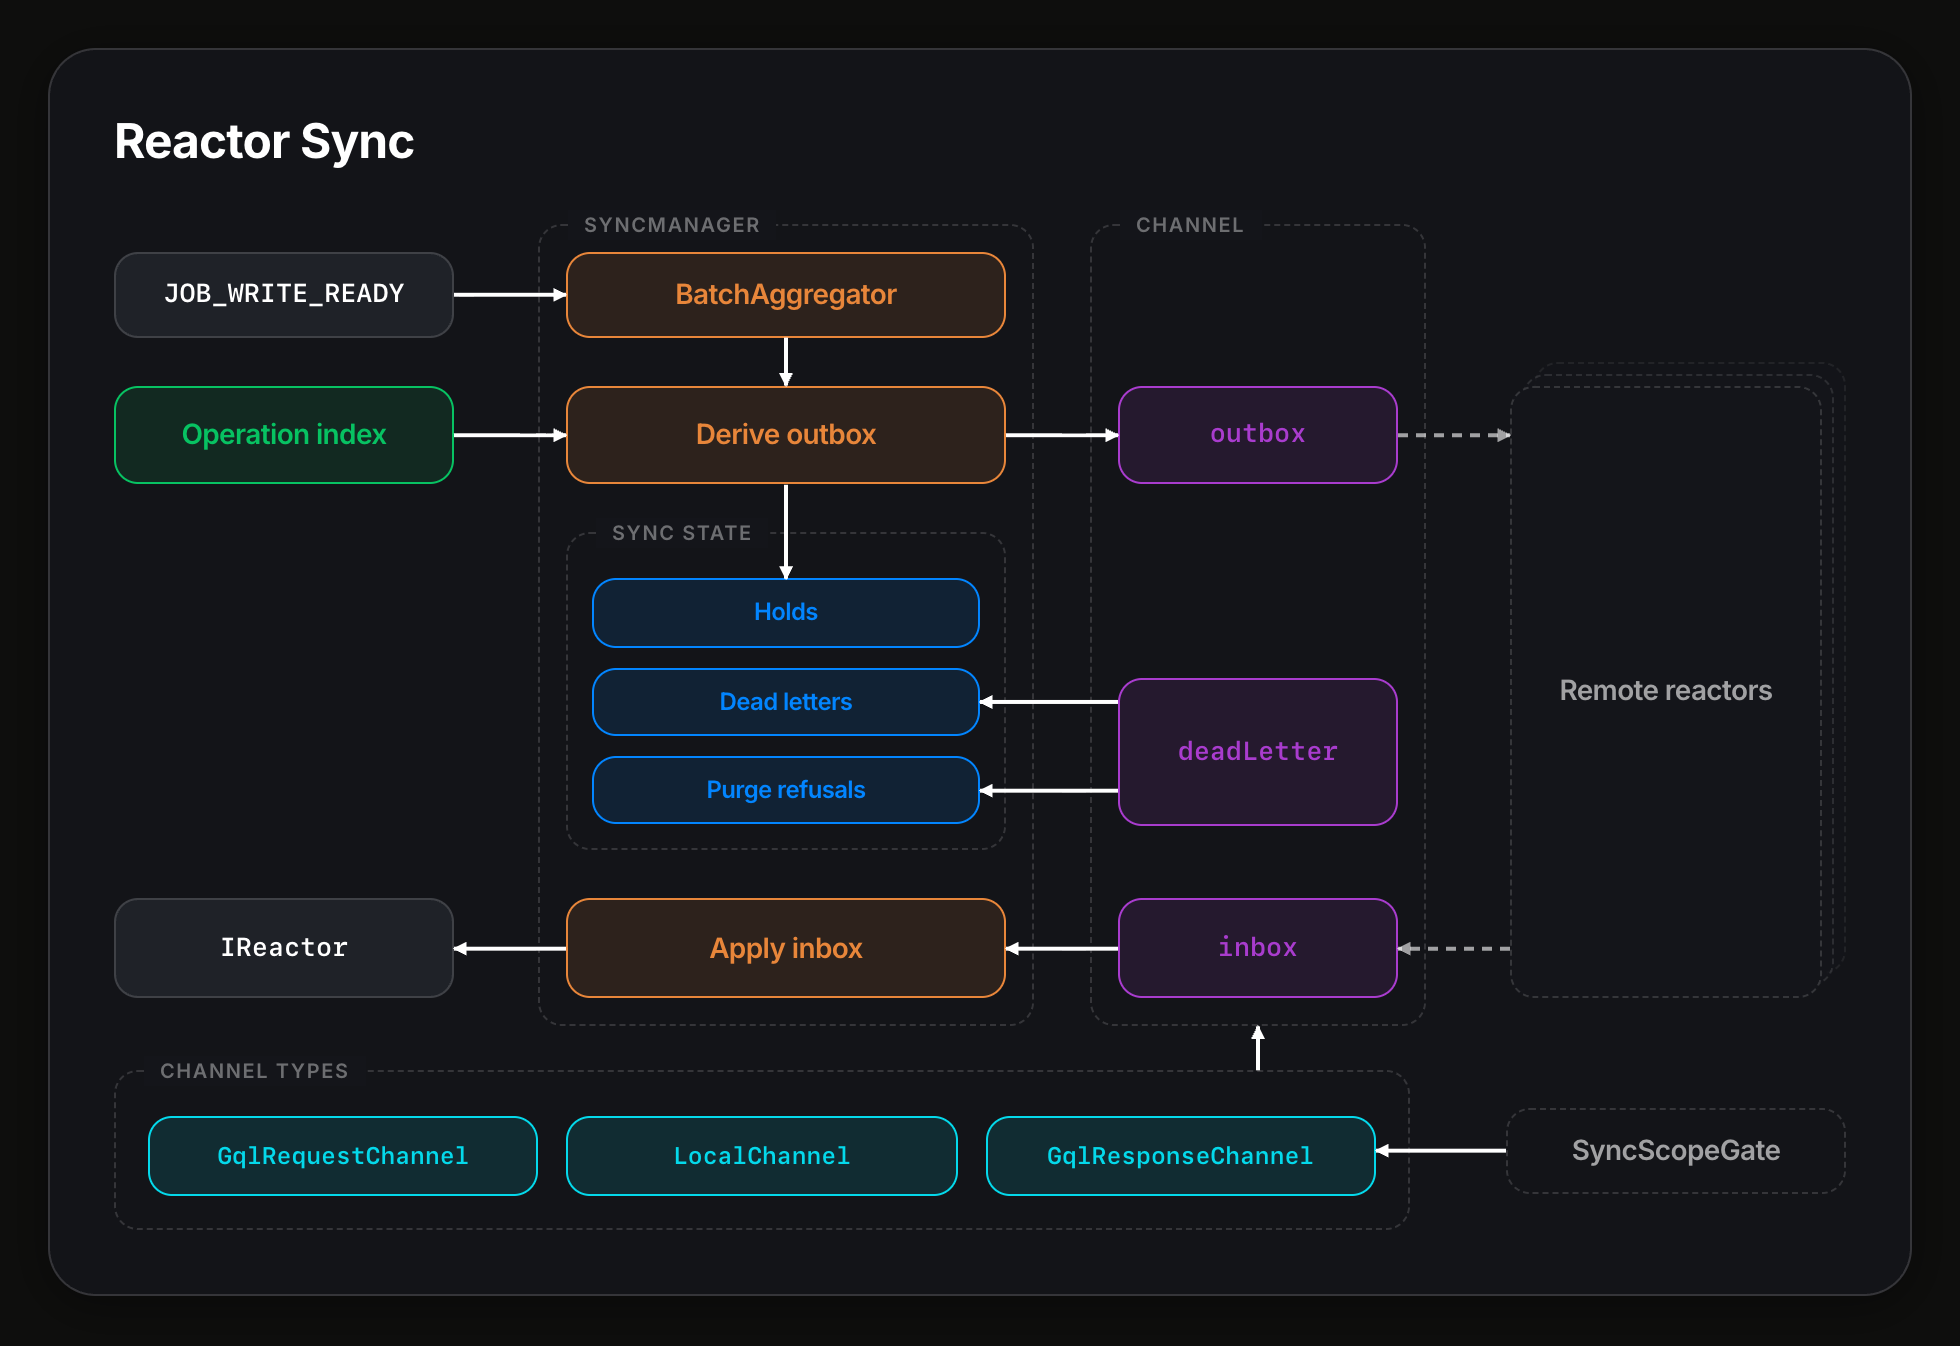
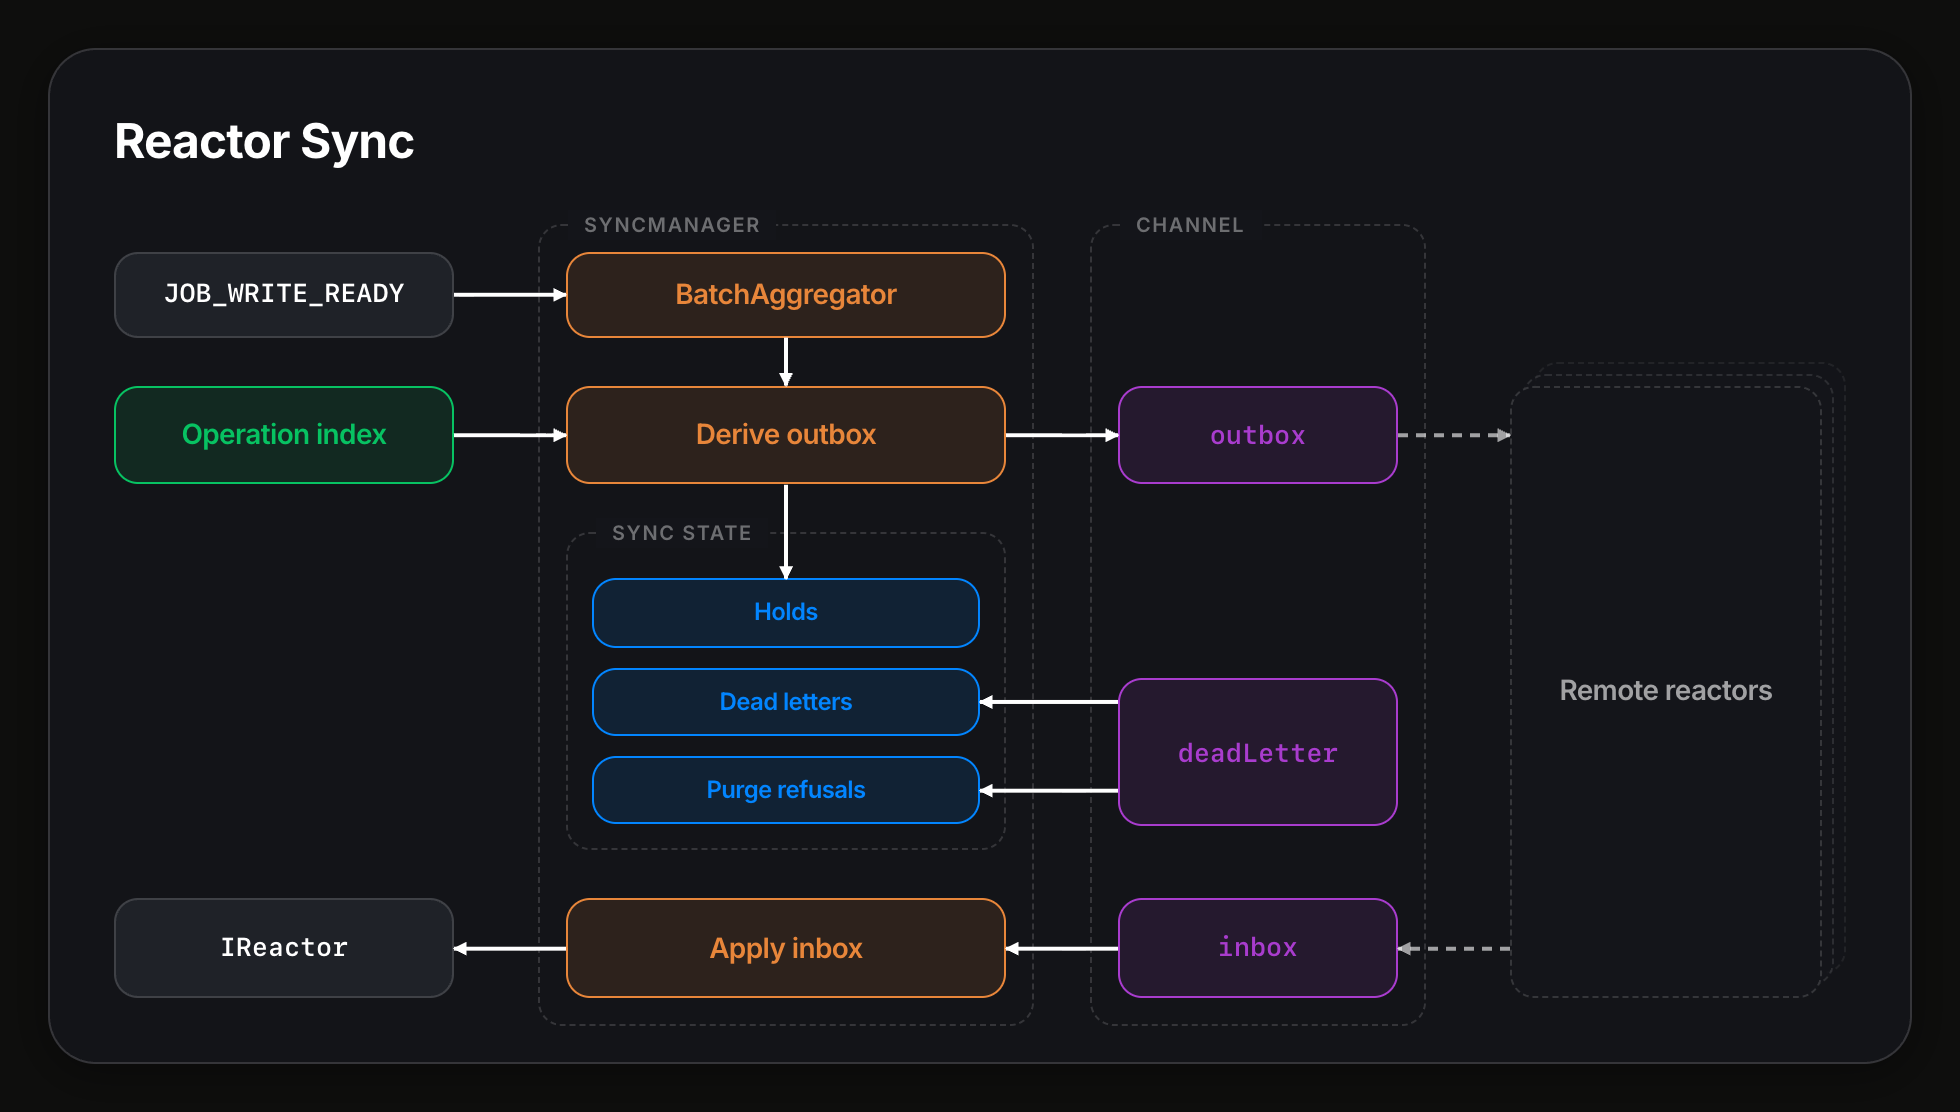
reactor sync: drop channel types and SyncScopeGate

diff --git a/pages/reactor-sync.html b/pages/reactor-sync.html
@@ -158,21 +158,7 @@
     .state-grid .box { padding: 9px 6px; }
     .state-grid .box-title { font-size: 12px; }
 
-    .types-row {
-      position: relative;
-      display: grid;
-      grid-template-columns: 1fr 170px;
-      column-gap: 48px;
-      align-items: center;
-      margin-top: 36px;
-    }
-    .types {
-      display: grid;
-      grid-template-columns: repeat(3, 1fr);
-      gap: 14px;
-    }
     .mailbox { align-self: center; padding: 16px 12px; }
-    .types .box-title.mono { font-size: 12px; }
   </style>
 </head>
 <body>
@@ -204,13 +190,6 @@
         refuse ................ sync-manager.ts:2173-2181: an outbox dead letter typed MARKER_REFUSED (the peer refused our tombstone)
                                 becomes a purge refusal via recordPurgeRefusal (:798). Also from poll reports (:802)
     Remote reactors [stack] ... sync/sync-manager.ts:312 (remotes: Map<string, Remote>)
-    Channel types · implements  each class implements IChannel (sync/interfaces.ts:37-102)
-      GqlRequestChannel ....... channels/gql-req-channel.ts:160 (touchChannel :1124)
-      LocalChannel ............ channels/local-channel.ts:73; channels/local-channel-factory.ts:27
-      GqlResponseChannel ...... channels/gql-res-channel.ts:23; reactor-api/src/graphql/reactor/resolvers.ts:2214, :1803
-      SyncScopeGate · filters . decision/sync-scope-gate.ts:20, :41; reactor-api/src/services/sync-serving-gate.ts:40-48;
-                                applied reactor-api/src/graphql/reactor/resolvers.ts:1754-1767 (never inside packages/reactor)
-                                Styled external: reactor-api applies it outside the reactor
   -->
   <div class="frame">
     <div class="card">
@@ -244,15 +223,6 @@
           <div class="box accent-orange" id="apply" style="grid-column:2;grid-row:4"><div class="box-title">Apply inbox</div></div>
           <div class="box mailbox accent-purple" id="inbox" style="grid-column:3;grid-row:4"><div class="box-title mono">inbox</div></div>
         </div>
-        <div class="types-row" id="types-row">
-          <div class="group types" id="types">
-            <span class="group-label">Channel types</span>
-            <div class="box accent-cyan" id="gqlreq"><div class="box-title mono">GqlRequestChannel</div></div>
-            <div class="box accent-cyan" id="localch"><div class="box-title mono">LocalChannel</div></div>
-            <div class="box accent-cyan" id="gqlres"><div class="box-title mono">GqlResponseChannel</div></div>
-          </div>
-          <div class="box external" id="gate"><div class="box-title">SyncScopeGate</div></div>
-        </div>
         </div>
       </div>
     </div>
@@ -269,7 +239,6 @@
       const ob = R('outbox'), rm = R('remote'), re = R('reactor'), ap = R('apply');
       const ib = R('inbox'), dl = R('dead');
       const ho = R('holds'), dls = R('deadletters'), pr = R('refusals');
-      const gr = R('gqlres'), gt = R('gate'), cf = R('chan-frame'), ty = R('types');
       return [
         { cls: 'w-call', pts: [[ev.r, ev.cy], [agg.l, ev.cy]], label: '', seg: 0 },
         { cls: 'w-call', pts: [[agg.cx, agg.b], [agg.cx, d.t]], label: '', seg: 0 },
@@ -282,8 +251,6 @@
         { cls: 'w-call', pts: [[ap.l, ap.cy], [re.r, ap.cy]], label: '', seg: 0 },
         { cls: 'w-call', pts: [[dl.l, dls.cy], [dls.r, dls.cy]], label: '', seg: 0 },
         { cls: 'w-call', pts: [[dl.l, pr.cy], [pr.r, pr.cy]], label: '', seg: 0 },
-        { cls: 'w-call', pts: [[gt.l, gt.cy], [gr.r, gt.cy]], label: '', seg: 0 },
-        { cls: 'w-call', pts: [[cf.cx, ty.t], [cf.cx, cf.b]], label: '', seg: 0 },
       ];
     }
 
